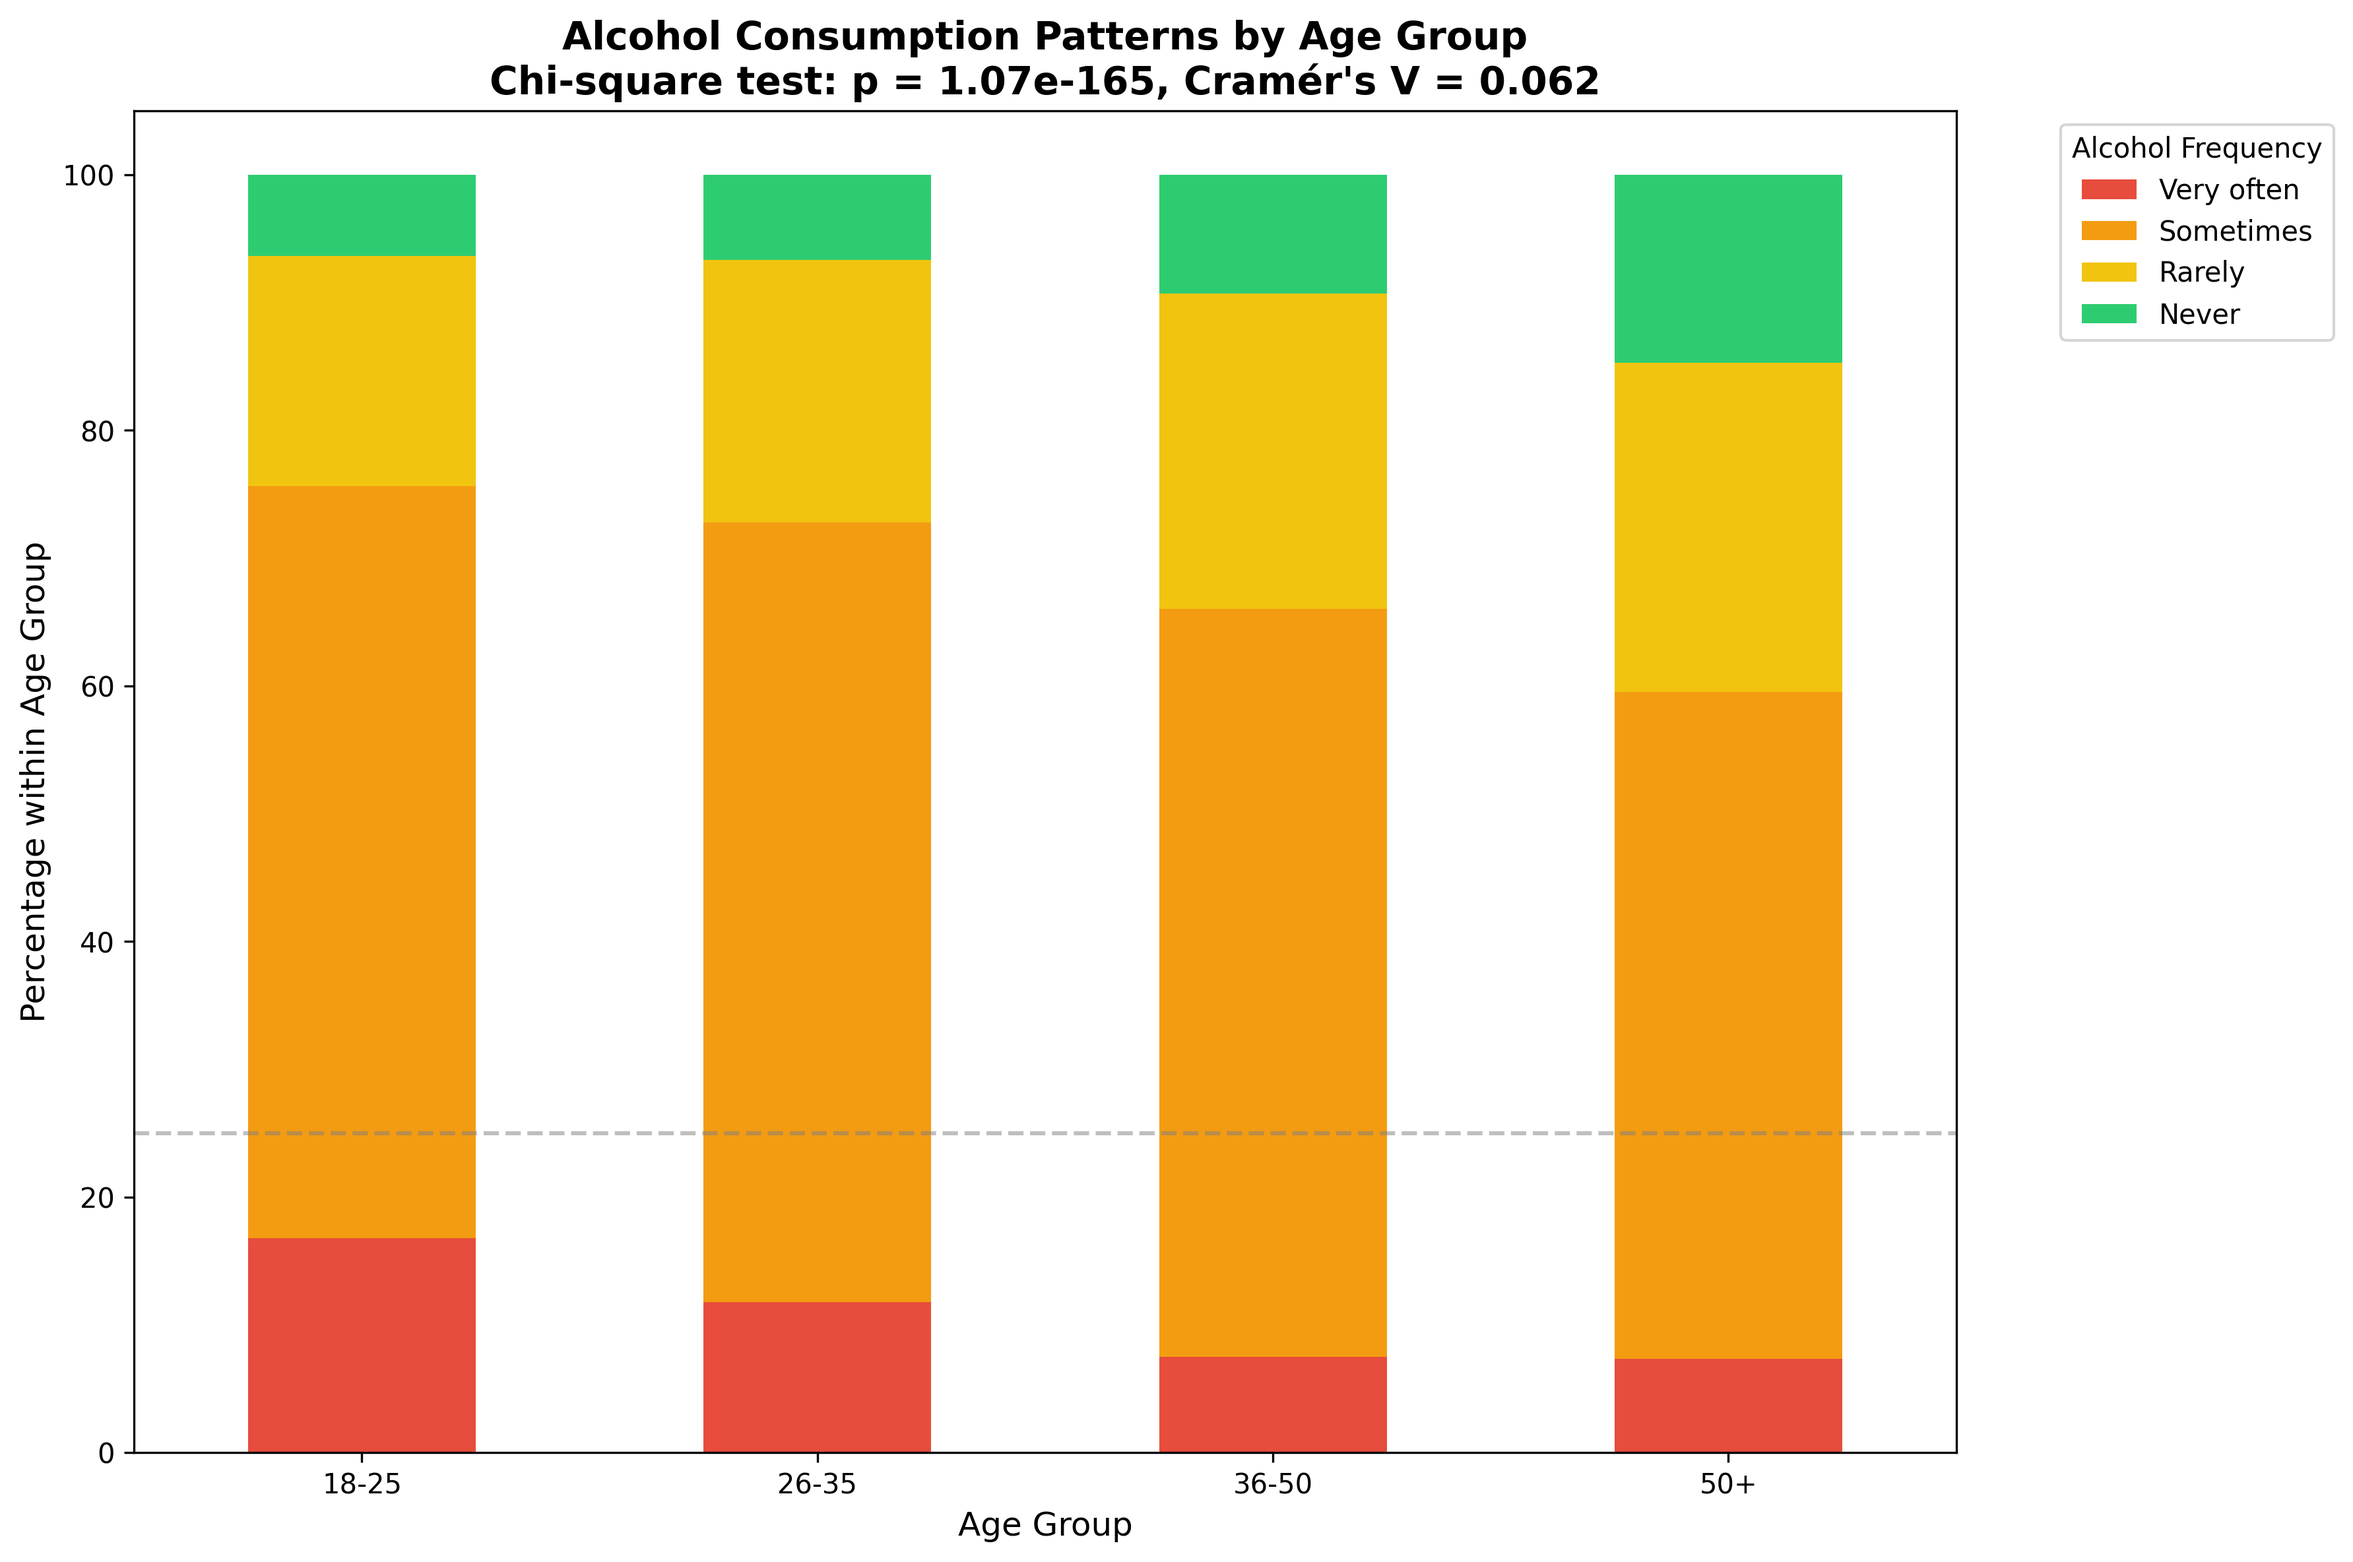
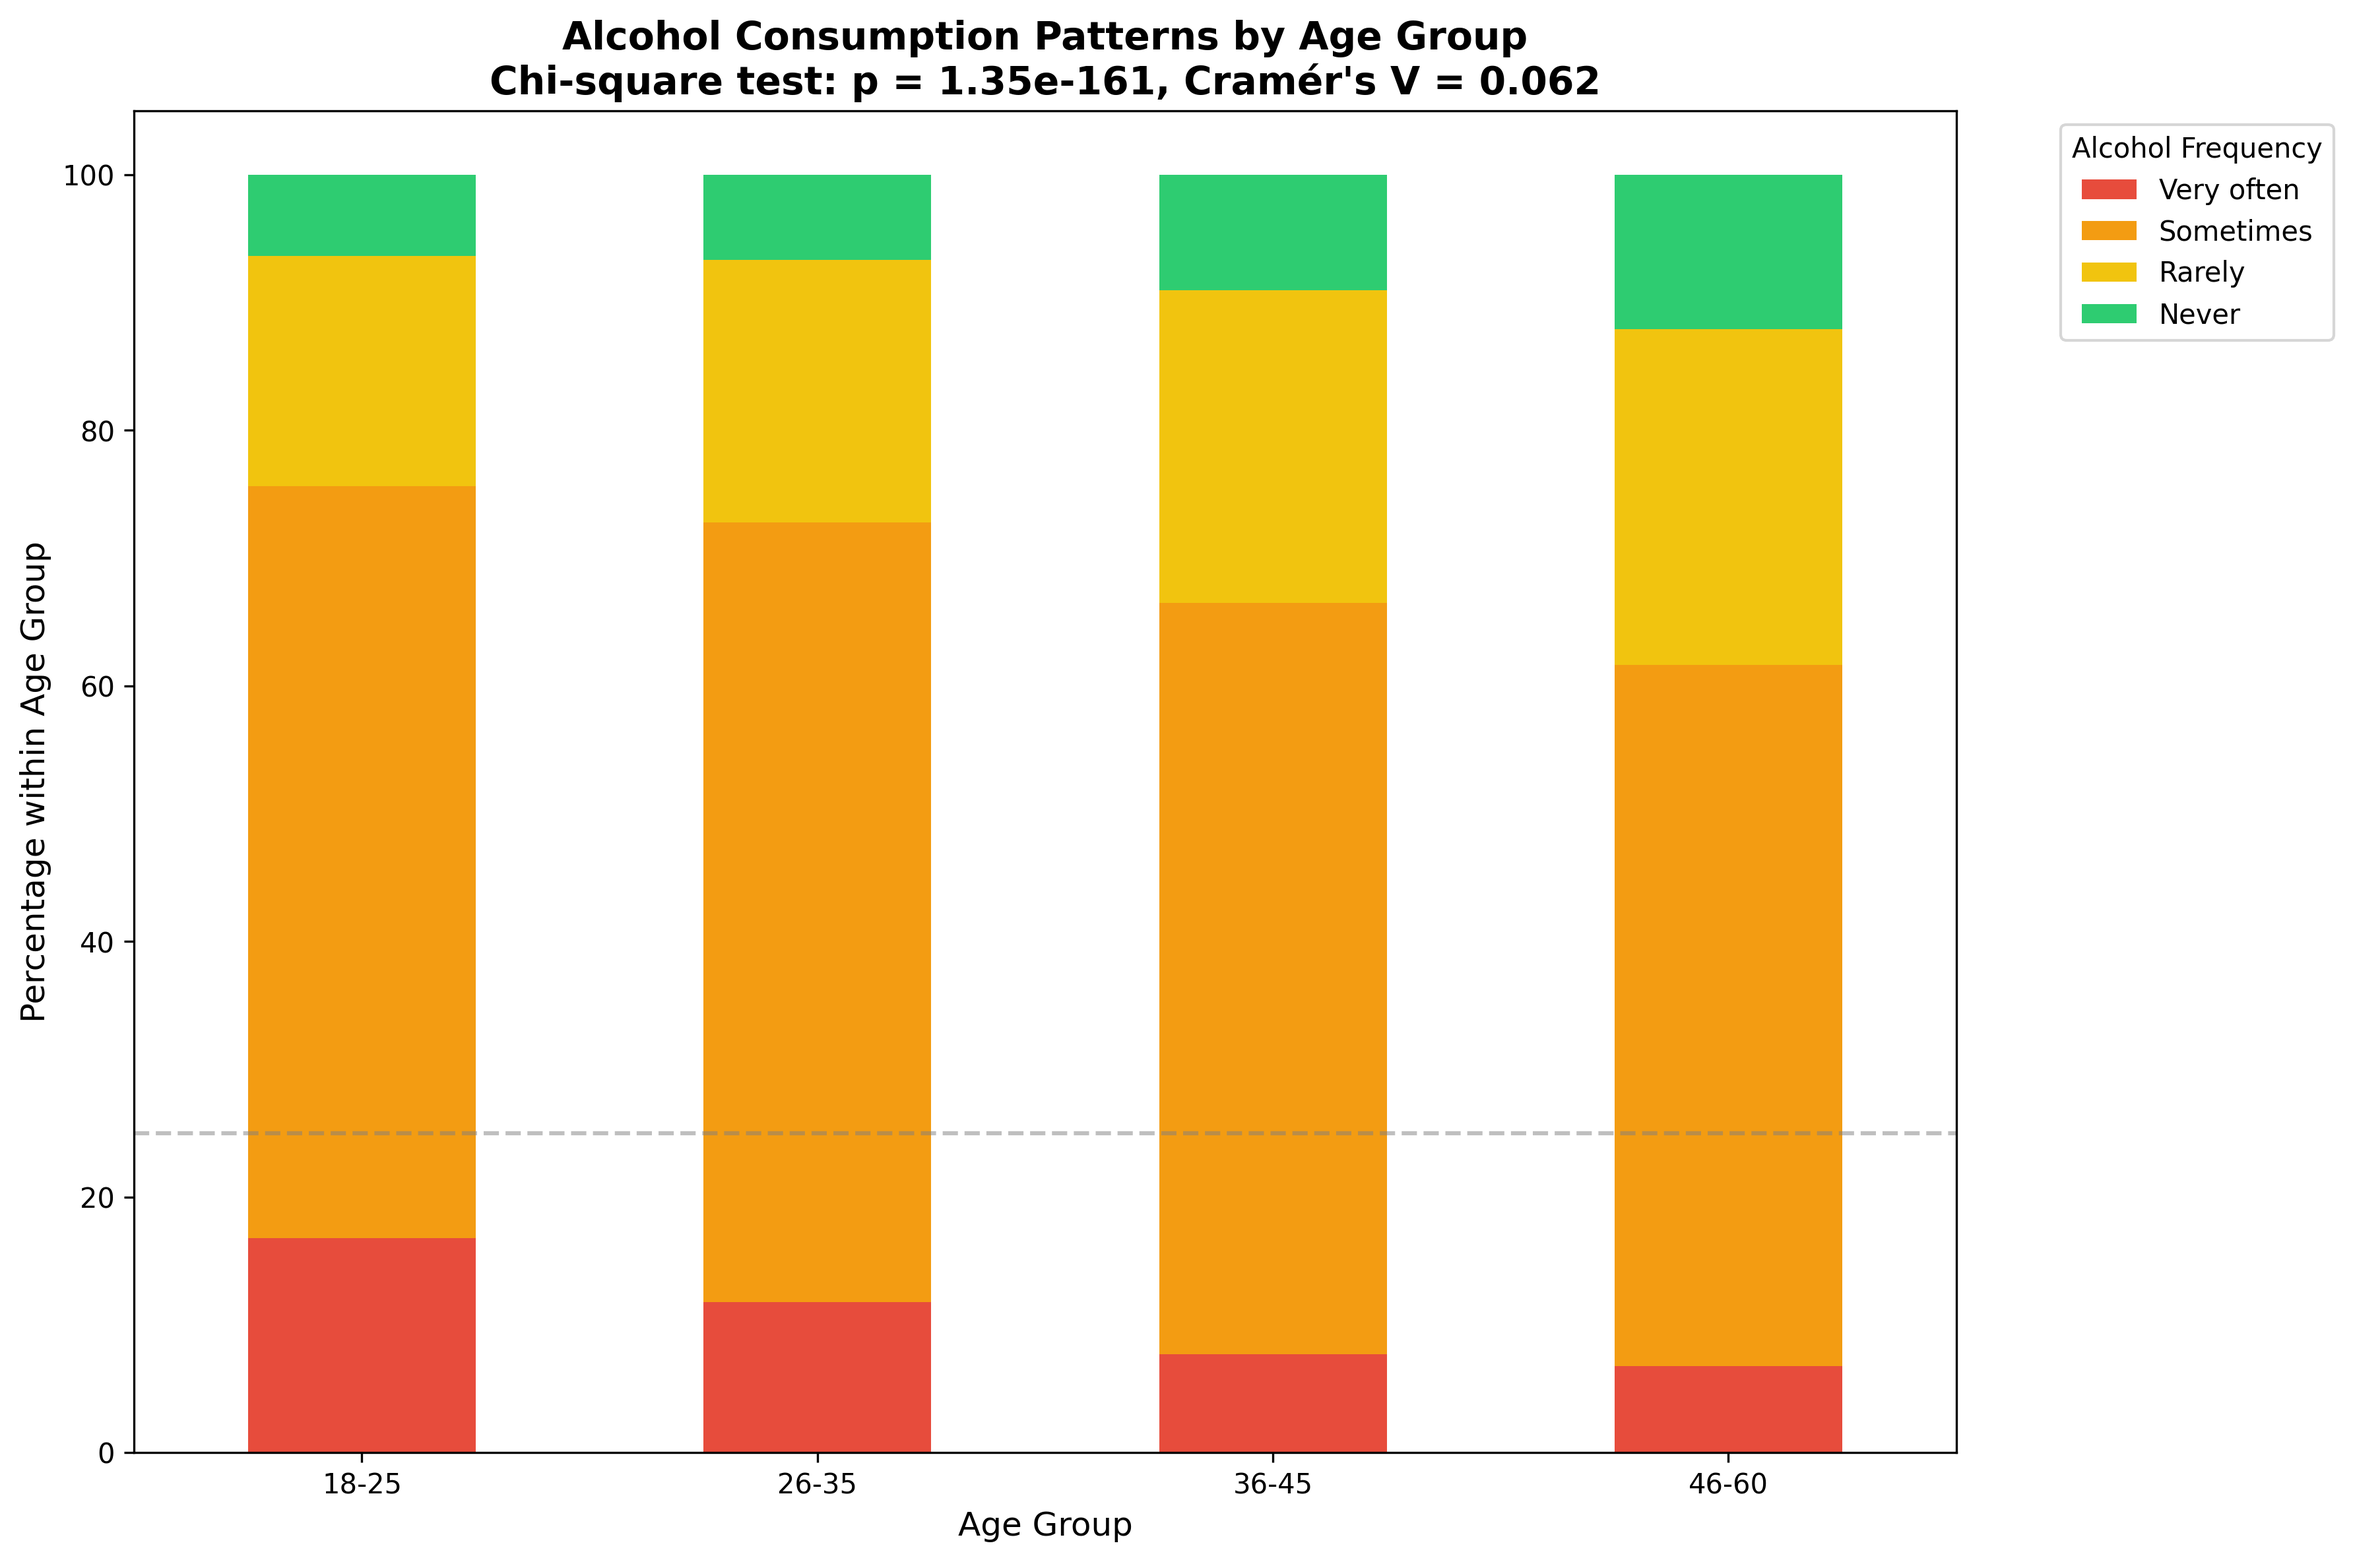
final hypothesis testing report

diff --git a/alcohol_age_hypothesis_test.py b/alcohol_age_hypothesis_test.py
@@ -88,10 +88,10 @@ def create_age_groups(df):
             return '18-25'
         elif 26 <= age <= 35:
             return '26-35'
-        elif 36 <= age <= 50:
-            return '36-50'
-        elif age > 50:
-            return '50+'
+        elif 36 <= age <= 45:
+            return '36-45'
+        elif 46 <= age <= 60:
+            return '46-60'
         else:
             return 'Other'
     
@@ -146,7 +146,7 @@ def create_contingency_table(df):
     contingency_table = contingency_table[column_order]
     
     # Reorder rows for age progression
-    row_order = ['18-25', '26-35', '36-50', '50+', 'Total']
+    row_order = ['18-25', '26-35', '36-45', '46-60', 'Total']
     contingency_table = contingency_table.reindex(row_order)
     
     print("\nContingency Table (Observed Frequencies):")

diff --git a/hypothesis_testing_report.md b/hypothesis_testing_report.md
@@ -1,0 +1,76 @@
+# Hypothesis Testing Report: Age and Alcohol Consumption Analysis
+
+## Executive Summary
+
+We conducted a rigorous Chi-square test of independence to validate whether alcohol consumption patterns are age-related among OkCupid users. The analysis provides strong statistical evidence for an age-alcohol relationship (p < 0.001) but reveals a small practical effect size, indicating alcohol consumption is a valid but supplementary predictor for age in machine learning models.
+
+## The 5-Step Hypothesis Testing Framework
+
+**Research Question:** Does alcohol consumption frequency decrease with age among OkCupid users?
+
+### Step 1: Define Your Hypotheses (Null, Alternative)
+
+- **H₀ (Null Hypothesis):** Age and alcohol consumption are independent - there is no association between age and drinking frequency
+- **H₁ (Alternative Hypothesis):** Alcohol consumption frequency decreases with age - older individuals are more likely to drink "Rarely" or "Never"
+
+### Step 2: Specify Your Null Distribution
+
+**Under H₀ Assumption:** If age and drinking were truly independent, the proportion of frequent drinkers should be the same across all age groups. Any observed differences would be random sampling variation.
+
+**Statistical Distribution:** Chi-square (χ²) distribution with **9 degrees of freedom** = (4 age groups - 1) × (4 drinking levels - 1) = 3 × 3 = 9
+
+### Step 3: Do an Experiment
+
+**Study Design:** Cross-sectional analysis of 51,212 OkCupid users using question q77 ("How frequently do you drink alcohol?") with responses: Very often, Sometimes, Rarely, Never.
+
+**Age Groups:** Users categorized into balanced groups: 18-25, 26-35, 36-45, and 46-60 years.
+
+**Data Collection:** Constructed 4×4 contingency table with observed frequencies for each age-drinking combination.
+
+### Step 4: Calculate the P-value
+
+**Statistical Results:**
+
+- **P-value: 1.35e-161** → Extremely statistically significant - virtually impossible to occur by chance if H₀ were true
+- **Chi-square statistic: 777.69** → Very large test statistic indicating substantial deviation from independence  
+- **Cramér's V (effect size): 0.0616** → Small effect size (0.1 = small, 0.3 = medium) - relationship exists but is weak
+- **Sample size: 51,212 users** → Excellent statistical power ensuring reliable results
+
+### Step 5: Reject or Fail to Reject Null Hypothesis
+
+**Decision:** **REJECT H₀** and accept H₁ (p = 1.35e-161 < 0.05)
+
+**Conclusion:** There is statistically significant evidence that alcohol consumption frequency decreases with age among OkCupid users.
+
+## Age Group Distribution
+
+| Age Group | Sample Size | Percentage | Drinking Pattern |
+|-----------|-------------|------------|------------------|
+| 18-25 | 10,525 | 20.6% | Higher "Very often" and "Sometimes" |
+| 26-35 | 26,514 | 51.8% | Peak "Sometimes", declining "Very often" |
+| 36-45 | 11,363 | 22.2% | Gradual shift toward "Rarely" |
+| 46-60 | 2,810 | 5.5% | Highest "Never" and "Rarely" percentages |
+
+## Visual Evidence
+
+Three key visualizations support our conclusions:
+
+1. **Contingency Table Heatmap** (`contingency_table_heatmap.png`): Shows clear differences between observed and expected frequencies, with younger groups over-represented in frequent drinking categories and older groups over-represented in infrequent drinking categories.
+
+2. **Age-Drinking Pattern Visualization** (`age_drinking_patterns.png`): Stacked bar chart reveals the hypothesized gradient - decreasing alcohol consumption with increasing age across all four groups.
+
+3. **Statistical Summary** (`statistical_summary.png`): Demonstrates the extremely small p-value relative to the significance threshold and positions our effect size in the "small" category.
+
+## Conclusions and Implications
+
+### Key Findings:
+- **Statistical Significance:** The relationship between age and alcohol consumption is real and not due to random chance
+- **Practical Significance:** The effect size is small (Cramér's V = 0.0616), indicating the relationship, while statistically robust, has limited practical impact
+
+### Machine Learning Implications:
+- **Model Enhancement:** Alcohol consumption represents a statistically robust predictor with small effect size that could provide modest improvements in future model iterations
+
+**In Conclusion:** With a P-value of 1.35e-161, we definitively reject the null hypothesis and conclude that alcohol consumption patterns are statistically associated with age among OkCupid users. However, the small effect size (Cramér's V = 0.0616) indicates this represents a statistically robust predictor with limited practical impact. These findings suggest potential opportunities for incorporating alcohol-related features in future model enhancements while emphasizing that diverse feature sets remain essential for optimal performance.
+
+---
+*Analysis conducted using Chi-square test of independence with α = 0.05 significance level. All statistical assumptions verified: random sampling, independence of observations, and adequate expected frequencies (>5 per cell).*

diff --git a/hypothesis_testing.md b/hypothesis_testing.md
@@ -34,8 +34,8 @@ This analysis is part of the OkCupid Age Prediction project, where we use machin
 **Age Groups Defined:**
 - Young Adults: 18-25 years
 - Adults: 26-35 years  
-- Middle-aged: 36-50 years
-- Older Adults: 50+ years
+- Middle-aged: 36-45 years
+- Older Adults: 46-60 years
 
 ### Step 2: Specify Your Null Distribution
 
@@ -57,7 +57,7 @@ Expected Frequency = (Row Total × Column Total) / Grand Total
 **Our Observational Study Design:**
 1. Load OkCupid user dataset with age and q77 response data
 2. Filter users with valid ages (18-80) and valid alcohol responses
-3. Create age group categories: 18-25, 26-35, 36-50, 50+
+3. Create age group categories: 18-25, 26-35, 36-45, 46-60
 4. Map q77 numeric responses to descriptive labels
 5. Construct 4×4 contingency table with observed frequencies
 6. Calculate row totals, column totals, and grand total
@@ -65,8 +65,8 @@ Expected Frequency = (Row Total × Column Total) / Grand Total
 **Expected Pattern if H₁ is True:**
 - **Young Adults (18-25):** Higher percentages of "Very often" and "Sometimes"
 - **Adults (26-35):** Peak "Sometimes", declining "Very often"
-- **Middle-aged (36-50):** Gradual shift toward "Rarely"
-- **Older Adults (50+):** Highest percentages of "Never" and "Rarely"
+- **Middle-aged (36-45):** Gradual shift toward "Rarely"
+- **Older Adults (46-60):** Highest percentages of "Never" and "Rarely"
 
 ### Step 4: Calculate the P-value
 
